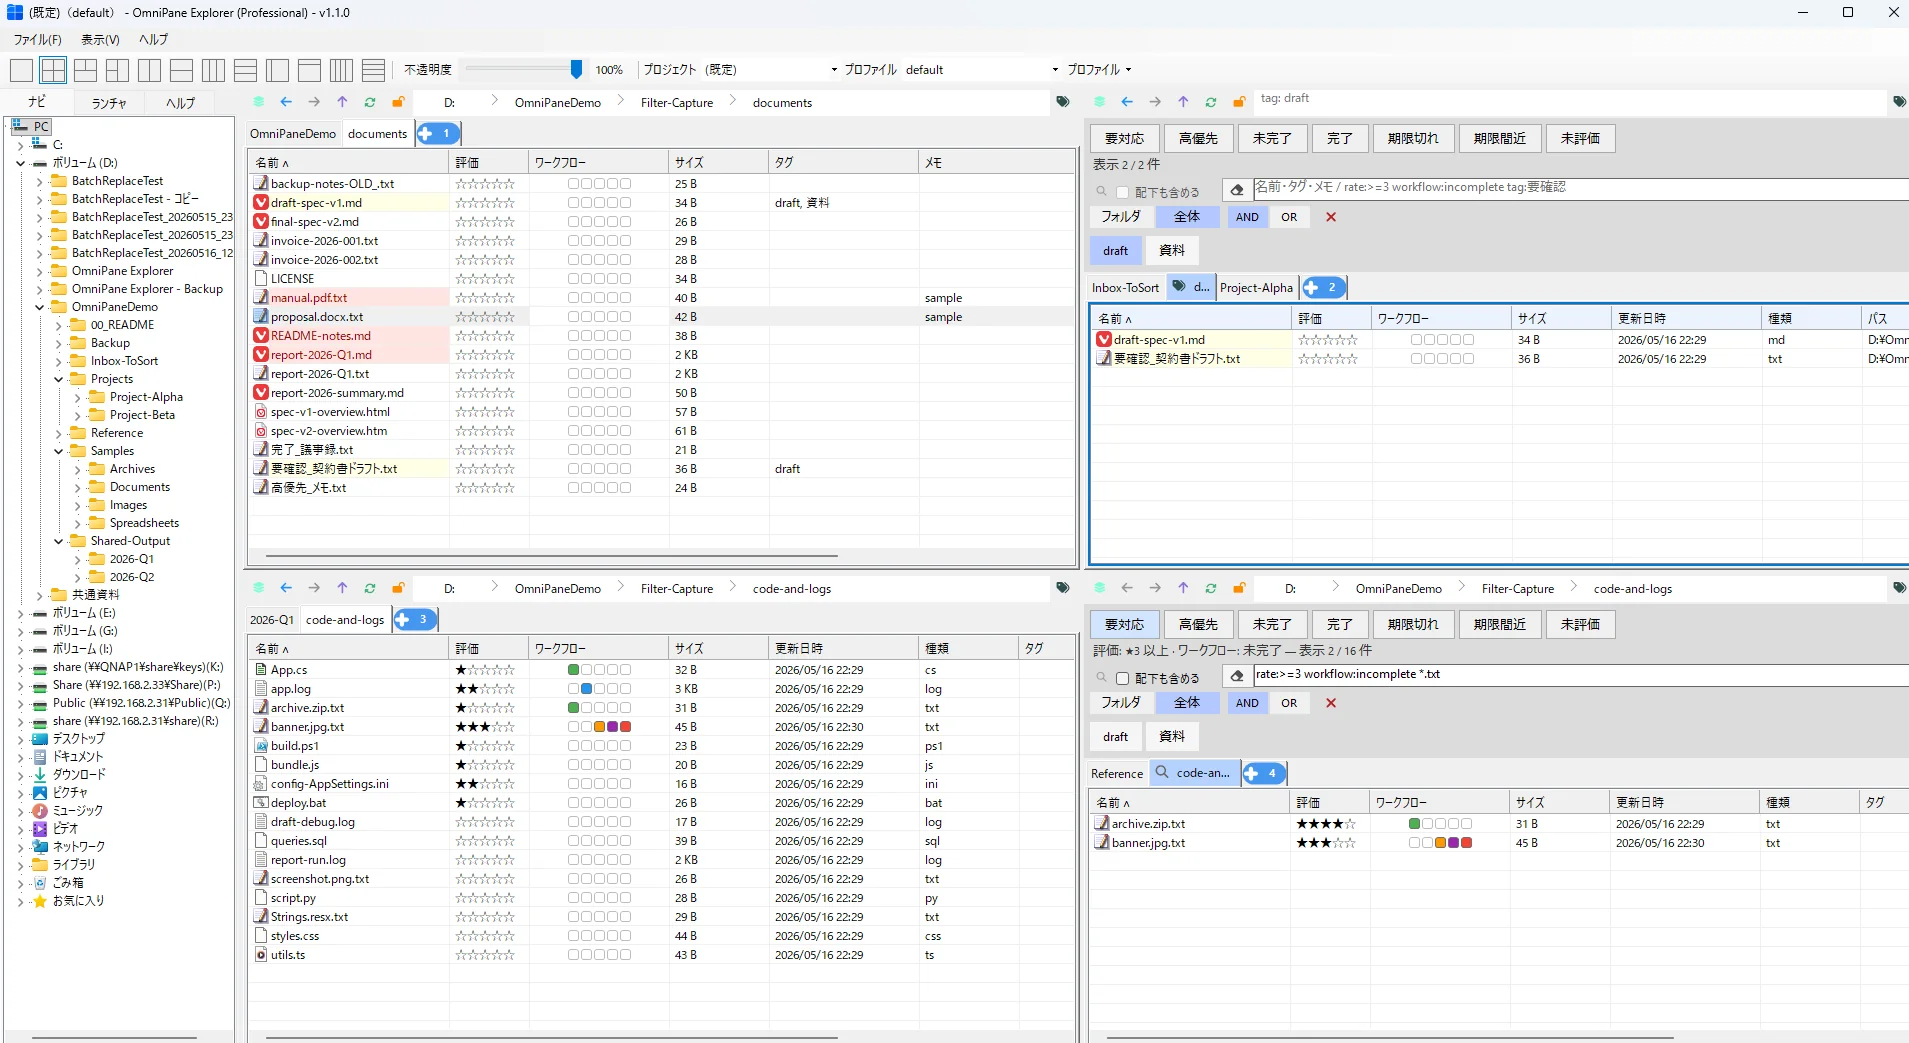
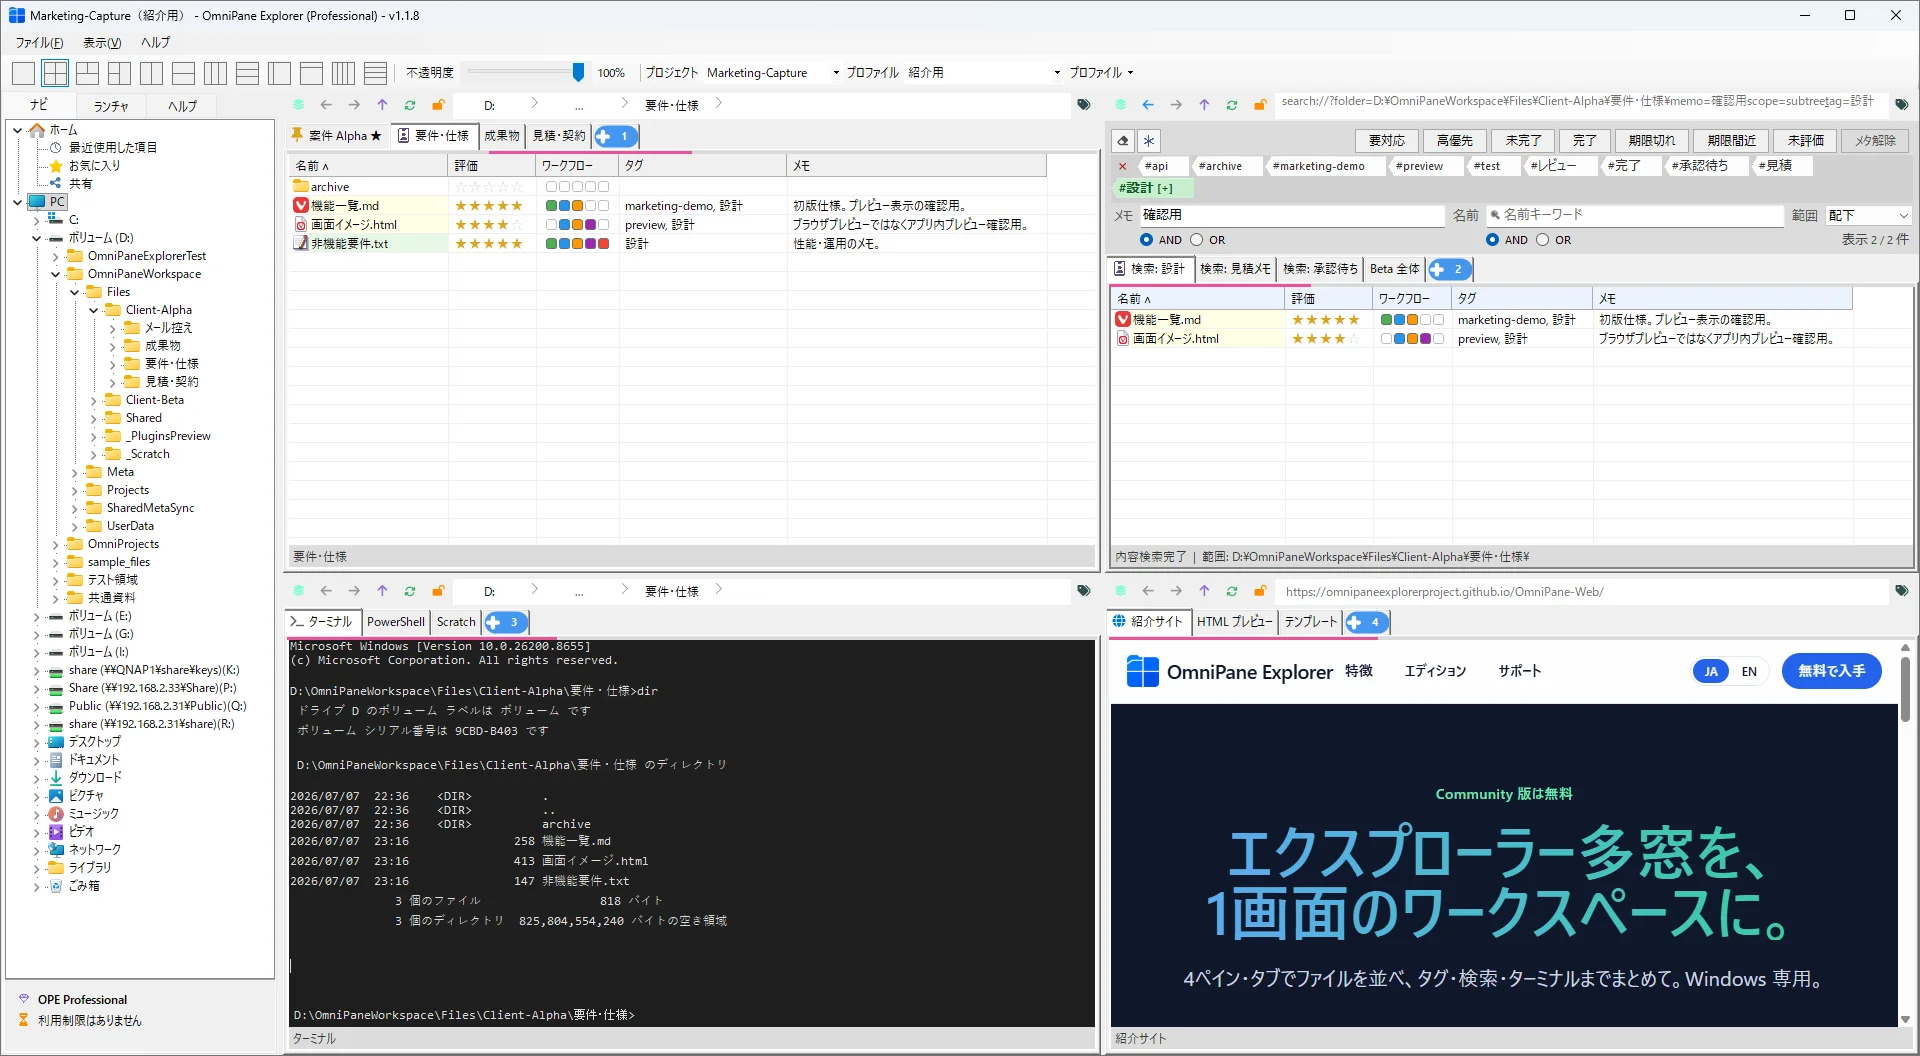
Fix hero image

diff --git a/index.html b/index.html
@@ -4,6 +4,8 @@
     <meta charset="UTF-8">
     <meta name="viewport" content="width=device-width, initial-scale=1.0">
     <meta name="description" content="Windows向け。4ペイン・タブ、タグ・検索、ターミナル統合。Community無料。Microsoft Store。">
+    <meta property="og:image" content="https://omnipaneexplorerproject.github.io/OmniPane-Web/images/screenshots/hero-main.webp">
+    <meta property="og:image:alt" content="OmniPane Explorer の4ペイン画面">
     <link rel="icon" href="favicon.ico" sizes="any">
     <link rel="icon" href="images/icons/favicon.svg" type="image/svg+xml">
     <link rel="icon" href="images/icons/favicon-32x32.png" type="image/png" sizes="32x32">
@@ -53,6 +55,16 @@
         </div>
     </header>
 
+    <section class="py-12 bg-slate-100 border-b border-slate-200" aria-labelledby="screenshot-heading">
+        <div class="max-w-5xl mx-auto px-4">
+            <h2 id="screenshot-heading" class="sr-only" data-i18n="index.screenshot.heading">製品画面</h2>
+            <p class="text-center text-sm text-slate-500 mb-4" data-i18n="index.screenshot.caption">タグ・検索・ターミナル・Web を4ペインで一度に</p>
+            <div class="hero-screenshot-frame">
+                <img src="images/screenshots/hero-main.webp" width="1024" height="560" decoding="async" fetchpriority="high" alt="OmniPane Explorer の4ペイン画面。タグ・評価付き一覧、ハイブリッド検索、ターミナル、ブラウザタブを同時表示" data-i18n-alt="index.screenshot.alt">
+            </div>
+        </div>
+    </section>
+
     <section id="features" class="py-24 max-w-6xl mx-auto px-4">
         <div class="text-center mb-16">
             <h2 class="text-3xl font-bold mb-4" data-i18n="index.features.title">1画面に、作業をまとめる</h2>
@@ -73,15 +85,6 @@
                 <div class="w-12 h-12 bg-indigo-100 text-indigo-600 rounded-xl flex items-center justify-center mb-6 text-2xl" aria-hidden="true">📦</div>
                 <h3 class="text-xl font-bold mb-3" data-i18n="index.f3.title">まとめる — 統合タブ・レイアウト保存</h3>
                 <p class="text-slate-600" data-i18n="index.f3.body">ターミナル・プレビュー・編集を同じ画面に。案件ごとの作業レイアウトを保存・復元できます（.ope プロファイル：ペイン配置・タブ・パス）。</p>
-            </div>
-        </div>
-    </section>
-
-    <section class="py-12 bg-slate-100">
-        <div class="max-w-5xl mx-auto px-4">
-            <p class="text-center text-sm text-slate-500 mb-4" data-i18n="index.screenshot.caption">4ペイン・タブで、コピー・参照・確認を1画面に</p>
-            <div class="aspect-video rounded-3xl overflow-hidden bg-slate-200 border-8 border-white shadow-2xl">
-                <img src="images/screenshots/hero-main.webp" width="1920" height="1080" class="w-full h-full object-cover object-top" loading="lazy" decoding="async" alt="OmniPane Explorer の4ペイン画面" data-i18n-alt="index.screenshot.alt">
             </div>
         </div>
     </section>

diff --git a/assets/site.css b/assets/site.css
@@ -6,6 +6,20 @@
     background-image: radial-gradient(#1e293b 0.5px, transparent 0.5px);
     background-size: 24px 24px;
 }
+/* 製品スクショ: 角丸を控えめにしてウィンドウ枠が欠けないようにする */
+.hero-screenshot-frame {
+    border-radius: 0.5rem; /* 8px — rounded-3xl(24px) だとタイトルバー角が切れる */
+    overflow: hidden;
+    border: 6px solid #fff;
+    box-shadow: 0 25px 50px -12px rgb(0 0 0 / 0.25);
+    background-color: #e2e8f0;
+}
+.hero-screenshot-frame img {
+    display: block;
+    width: 100%;
+    height: auto;
+    vertical-align: middle;
+}
 .lang-btn {
     min-width: 2.25rem;
 }

diff --git a/assets/i18n.js b/assets/i18n.js
@@ -65,8 +65,9 @@
             'index.f2.body': 'タグ・メモ・評価で「どの案件か」をファイルに紐づけ。名前・タグ・メモ・Grep を組み合わせた横断検索。',
             'index.f3.title': 'まとめる — 統合タブ・レイアウト保存',
             'index.f3.body': 'ターミナル・プレビュー・編集を同じ画面に。案件ごとの作業レイアウトを保存・復元できます（.ope プロファイル：ペイン配置・タブ・パス）。',
-            'index.screenshot.caption': '4ペイン・タブで、コピー・参照・確認を1画面に',
-            'index.screenshot.alt': 'OmniPane Explorer の4ペイン画面',
+            'index.screenshot.heading': '製品画面',
+            'index.screenshot.caption': 'タグ・検索・ターミナル・Web を4ペインで一度に',
+            'index.screenshot.alt': 'OmniPane Explorer の4ペイン画面。タグ・評価付き一覧、ハイブリッド検索、ターミナル、ブラウザタブを同時表示',
             'editions.kicker': 'Editions',
             'editions.hero.title': '用途に合わせて選べる<br class="hidden sm:inline">3つのエディション',
             'editions.hero.sub': '無料の Community で多窓が軽くなるか試し、Standard・Professional で4ペインと統合タブをフル活用。',
@@ -192,8 +193,9 @@
             'index.f2.body': 'Attach tags, memos, and ratings to files. Hybrid search across names, tags, memos, and grep.',
             'index.f3.title': 'Bring together — integrated tabs & saved layouts',
             'index.f3.body': 'Terminal, preview, and editor tabs in the same screen. Save and restore workspace layouts for each project (.ope profiles: pane layout, tabs, and paths).',
-            'index.screenshot.caption': 'Copy, reference, and review in one four-pane workspace',
-            'index.screenshot.alt': 'OmniPane Explorer four-pane layout',
+            'index.screenshot.heading': 'Product screenshot',
+            'index.screenshot.caption': 'Tags, search, terminal, and web — four panes at once',
+            'index.screenshot.alt': 'OmniPane Explorer four-pane workspace with tagged file list, hybrid search, terminal, and browser tab',
             'editions.kicker': 'Editions',
             'editions.hero.title': 'Three editions for<br class="hidden sm:inline">different workflows',
             'editions.hero.sub': 'Start free with Community to see if fewer windows help, then unlock four panes and integrated tabs with Standard or Professional.',

diff --git a/scripts/inject-ja-fallback.py b/scripts/inject-ja-fallback.py
@@ -64,7 +64,9 @@ JA: dict[str, str] = {
     "index.f2.body": "ファイル名に頼らない管理を。独自のタグ、5段階評価、進捗管理など、SQLiteベースの高速検索を提供。",
     "index.f3.title": "セーフティ・ロック",
     "index.f3.body": "重要なファイルの「削除禁止」設定。整理作業中のうっかりミスを物理的に防ぎ、安心感を提供します。",
-    "index.screenshot.alt": "OmniPane Explorer の4ペイン画面",
+    "index.screenshot.heading": "製品画面",
+    "index.screenshot.caption": "タグ・検索・ターミナル・Web を4ペインで一度に",
+    "index.screenshot.alt": "OmniPane Explorer の4ペイン画面。タグ・評価付き一覧、ハイブリッド検索、ターミナル、ブラウザタブを同時表示",
     "editions.kicker": "Editions",
     "editions.hero.title": '用途に合わせて選べる<br class="hidden sm:inline">3つのエディション',
     "editions.hero.sub": "無料の Community から始め、作業規模が大きくなるほど Standard・Professional でマルチペインとメタデータ管理をフル活用できます。",

diff --git a/images/screenshots/README.md b/images/screenshots/README.md
@@ -1,0 +1,17 @@
+# スクリーンショット
+
+| ファイル | 用途 |
+|----------|------|
+| `hero-main.webp` | `index.html` ヒーロー直下の製品画面（1024×560） |
+
+## 再生成
+
+1. `D:\OmniPaneWorkspace` で `Marketing-Capture.ope`（プロファイル: 紹介用）を開きキャプチャ
+2. PNG を WebP に変換して本ファイルを上書き
+
+```powershell
+python -c "from PIL import Image; Image.open('capture.png').save('hero-main.webp', 'WEBP', quality=88)"
+```
+
+再生成コマンド（デモデータ）: リポジトリルートで  
+`dotnet run --project tools/DemoWorkspaceSetup -- "D:\OmniPaneWorkspace"`